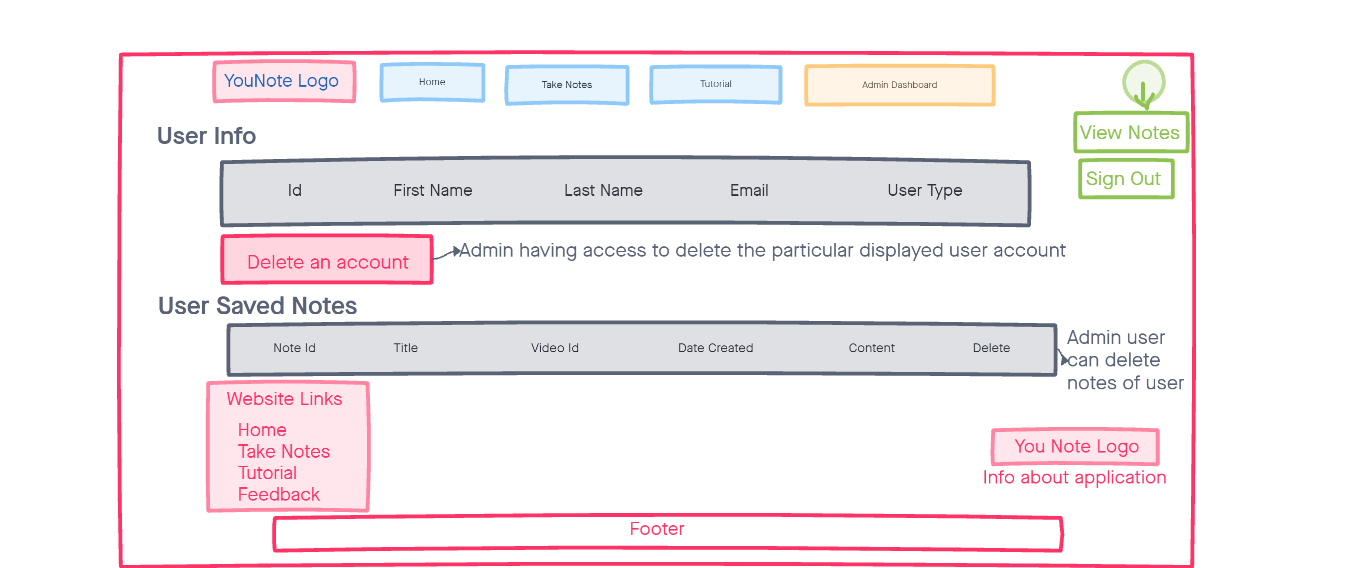
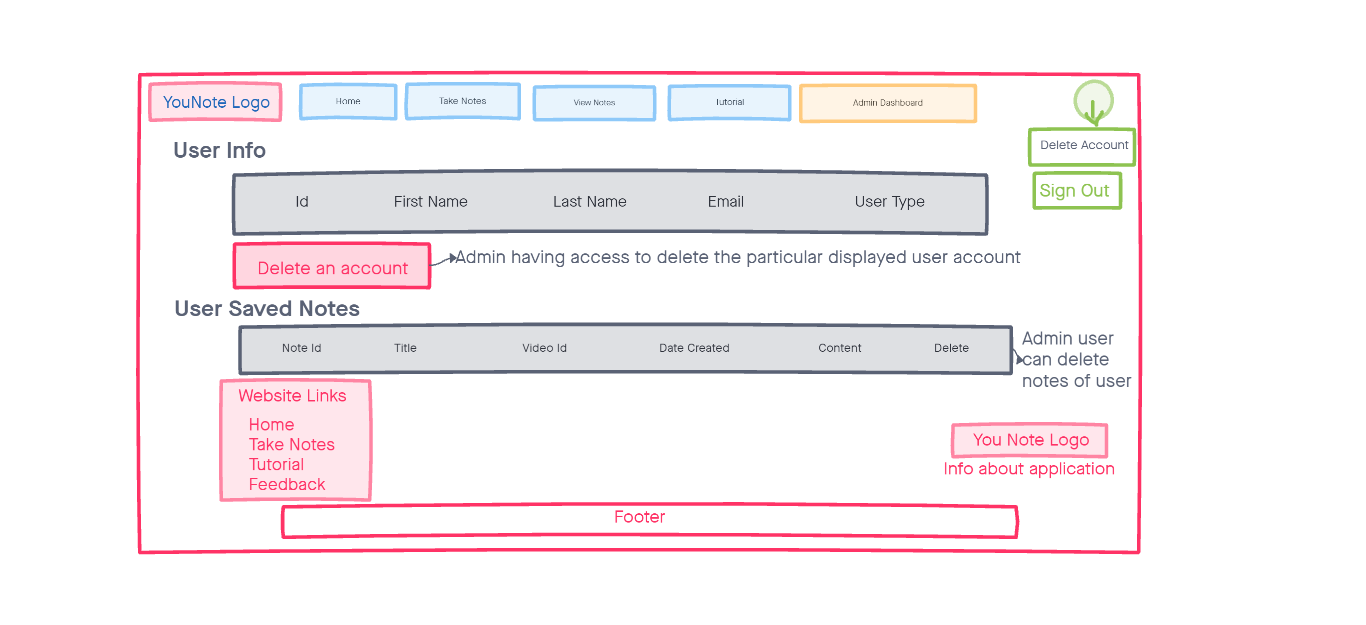
updated mockups

Changed region(s): [[0.0615, 0.0898, 0.8917, 1.0]]

diff --git a/README.md b/README.md
@@ -73,7 +73,7 @@ For what has already been implemented, Google Chrome extensions, such as “Tube
 ![alt text](mockup/Mockup-login.png)
 
 ### Mockup for Test Page
-![alt text](mockup/Mockup-test.png)
+![alt text](mockup/Mockup-takeNotes.png)
 
 ### Mockup for View Notes Page
 ![alt text](mockup/Mockup-viewNotes.png)
